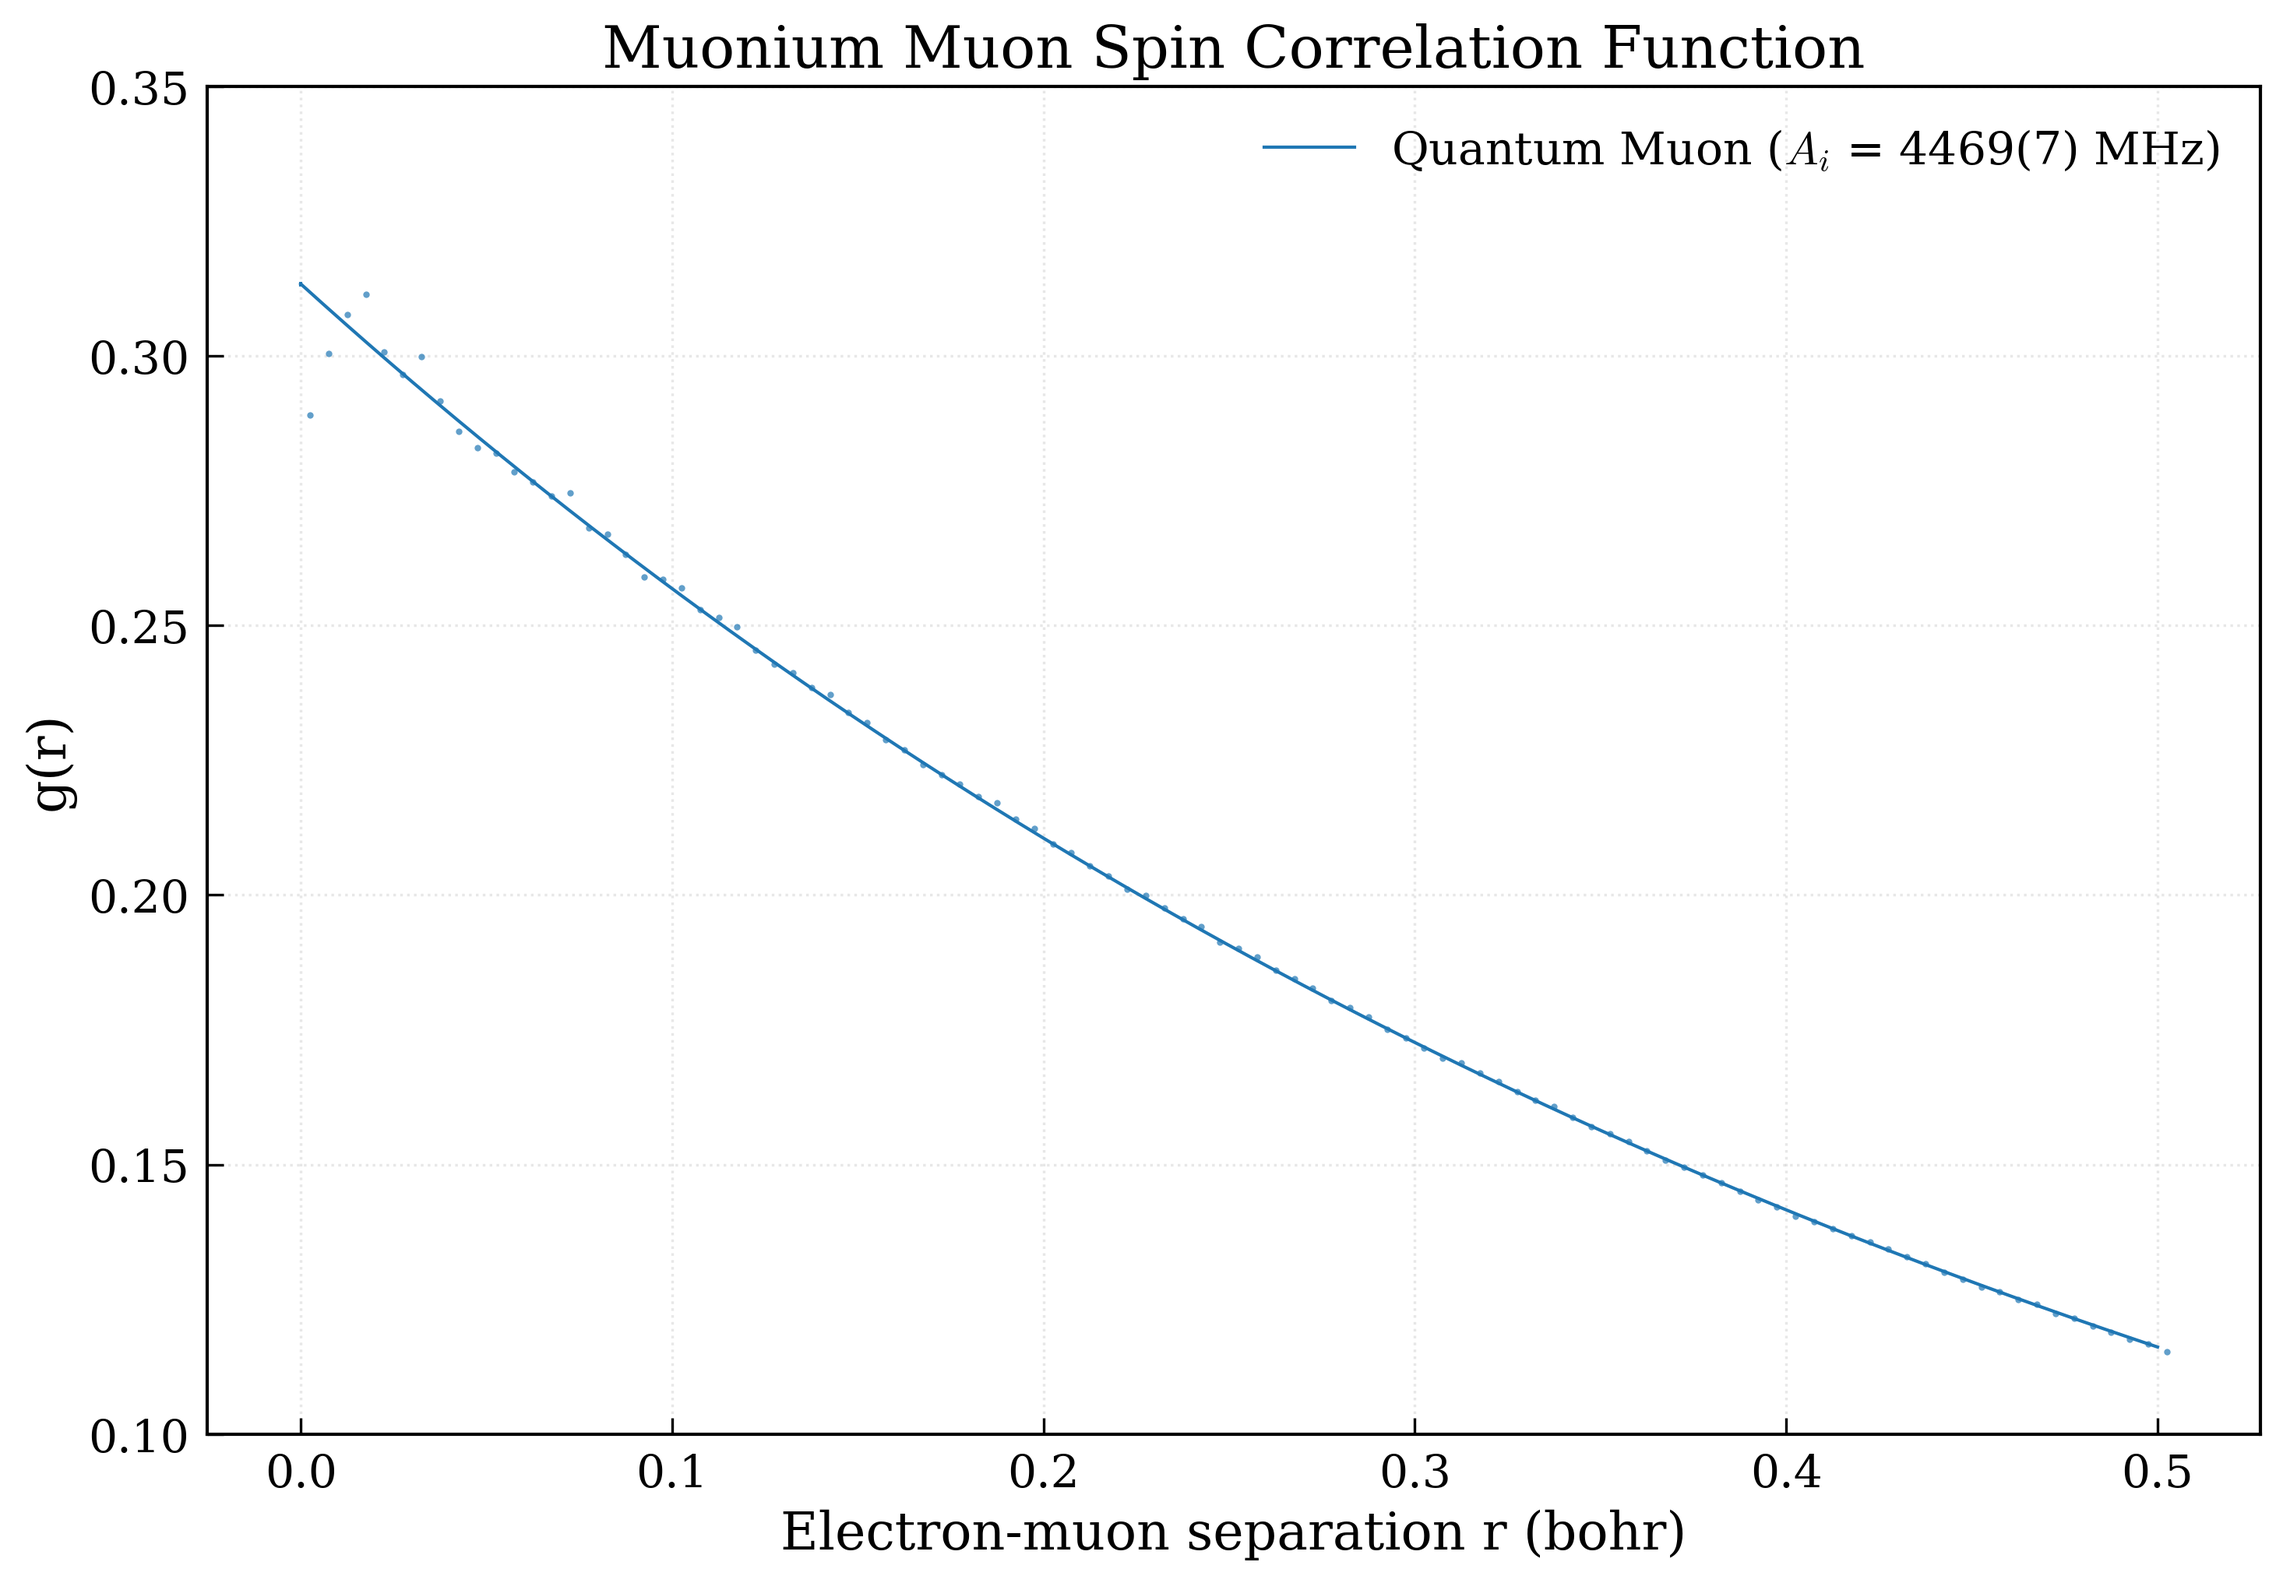
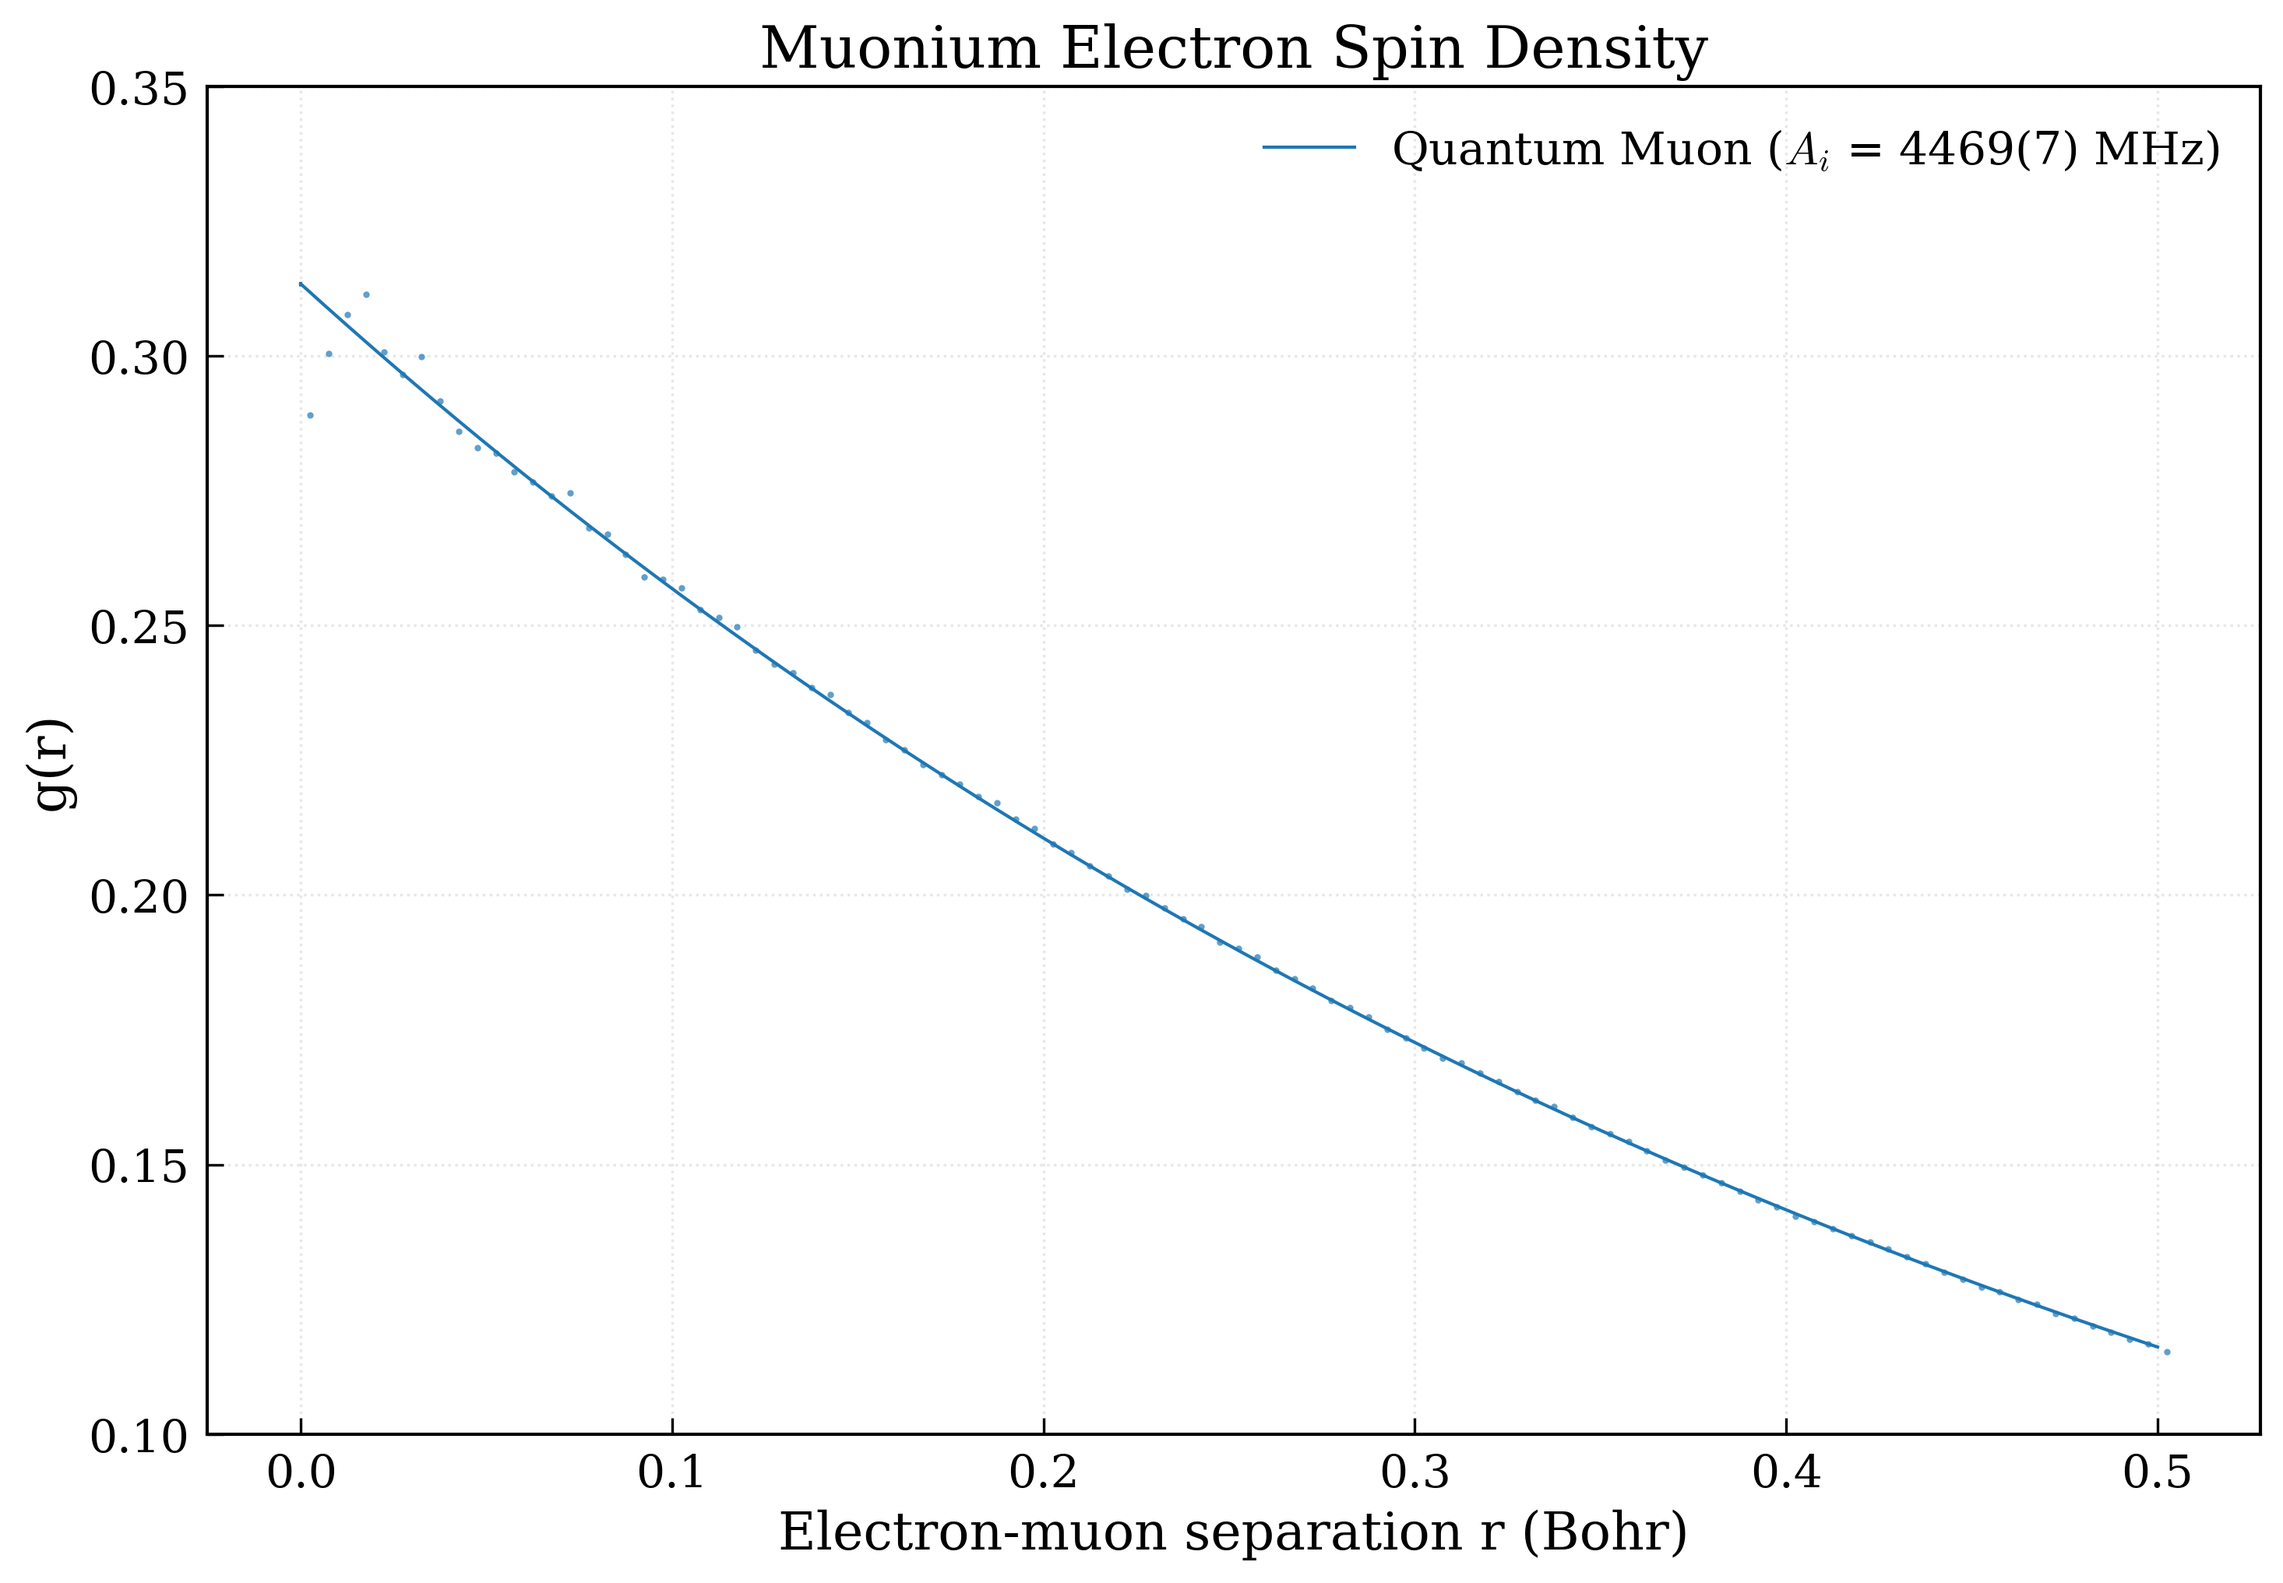
small

Changed region(s): [[0.2794, 0.0, 0.8072, 0.062], [0.3415, 0.9606, 0.7451, 0.9916]]

diff --git a/plotting/ethyl_2d_densities.py b/plotting/ethyl_2d_densities.py
@@ -295,8 +295,8 @@ def plot_density_projections(
     )
 
     ax_xy.set_title("XY Projection")
-    ax_xy.set_xlabel("X (bohr)")
-    ax_xy.set_ylabel("Y (bohr)")
+    ax_xy.set_xlabel("X (Bohr)")
+    ax_xy.set_ylabel("Y (Bohr)")
     ax_xy.yaxis.labelpad = -5
     add_atom_markers(ax_xy, "xy", exclude=["H4"])
     ax_xy.grid(alpha=0.3, linestyle=":")
@@ -322,8 +322,8 @@ def plot_density_projections(
     )
 
     ax_xz.set_title("XZ Projection")
-    ax_xz.set_xlabel("X (bohr)")
-    ax_xz.set_ylabel("Z (bohr)")
+    ax_xz.set_xlabel("X (Bohr)")
+    ax_xz.set_ylabel("Z (Bohr)")
     ax_xz.yaxis.labelpad = -5
     add_atom_markers(ax_xz, "xz", exclude=["H4"])
     ax_xz.grid(alpha=0.3, linestyle=":")
@@ -349,8 +349,8 @@ def plot_density_projections(
     )
 
     ax_yz.set_title("YZ Projection")
-    ax_yz.set_xlabel("Y (bohr)")
-    ax_yz.set_ylabel("Z (bohr)")
+    ax_yz.set_xlabel("Y (Bohr)")
+    ax_yz.set_ylabel("Z (Bohr)")
     ax_yz.yaxis.labelpad = -5
     add_atom_markers(ax_yz, "yz", exclude=["H4"])
     ax_yz.grid(alpha=0.3, linestyle=":")

diff --git a/plotting/methyl_2d_densities.py b/plotting/methyl_2d_densities.py
@@ -250,8 +250,8 @@ def plot_density_projections(
     )
 
     ax_xy.set_title("XY Projection")
-    ax_xy.set_xlabel("X (bohr)")
-    ax_xy.set_ylabel("Y (bohr)")
+    ax_xy.set_xlabel("X (Bohr)")
+    ax_xy.set_ylabel("Y (Bohr)")
     ax_xy.yaxis.labelpad = -5
     add_atom_markers(ax_xy, "xy", exclude=["H3"])
     ax_xy.grid(alpha=0.3, linestyle=":")
@@ -276,8 +276,8 @@ def plot_density_projections(
     )
 
     ax_xz.set_title("XZ Projection")
-    ax_xz.set_xlabel("X (bohr)")
-    ax_xz.set_ylabel("Z (bohr)")
+    ax_xz.set_xlabel("X (Bohr)")
+    ax_xz.set_ylabel("Z (Bohr)")
     ax_xz.yaxis.labelpad = -5
     add_atom_markers(ax_xz, "xz", exclude=["H3"])
     ax_xz.grid(alpha=0.3, linestyle=":")
@@ -302,8 +302,8 @@ def plot_density_projections(
     )
 
     ax_yz.set_title("YZ Projection")
-    ax_yz.set_xlabel("Y (bohr)")
-    ax_yz.set_ylabel("Z (bohr)")
+    ax_yz.set_xlabel("Y (Bohr)")
+    ax_yz.set_ylabel("Z (Bohr)")
     ax_yz.yaxis.labelpad = -5
     add_atom_markers(ax_yz, "yz", exclude=["H3"])
     ax_yz.grid(alpha=0.3, linestyle=":")

diff --git a/plotting/muon_spin_correlation_functions.py b/plotting/muon_spin_correlation_functions.py
@@ -456,12 +456,12 @@ def run():
                 legend_labels.append(legend_label)
 
         # Set primary axis labels and limits
-        ax.set_xlabel("Electron-muon separation r (bohr)")
+        ax.set_xlabel("Electron-muon separation r (Bohr)")
         ax.set_ylabel("g(r)")
         if category == "muonium":
-            ax.set_title(f"{category.capitalize()} Muon Spin Correlation Function")
+            ax.set_title(f"{category.capitalize()} Electron Spin Density")
         else:
-            ax.set_title(f"{category.capitalize()} Muon Spin Correlation Functions")
+            ax.set_title(f"{category.capitalize()} Electron Spin Density")
 
         # Set specific y-axis limits for each category
         if category == "methyl":
